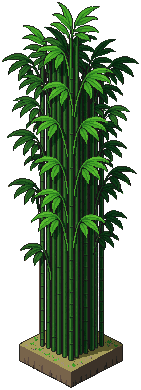
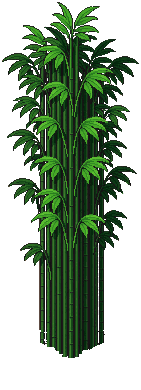
Clean tree transparency and remove ground slabs

Changed region(s): [[0.1135, 0.8308, 0.8794, 1.0]]

diff --git a/assets/pixellab/japanese_environment/README.md b/assets/pixellab/japanese_environment/README.md
@@ -144,7 +144,11 @@ sakura trees (`sakura_tree_a`, `sakura_tree_c`, `sakura_weeping`), `black_pine`,
 to fade when the player walks behind them.
 
 The five trees were regenerated at 400px tall (roughly twice the old height;
-backgrounds removed locally) and drawn at 1.2–1.3x scale:
+backgrounds removed locally) and drawn at 1.2–1.3x scale. Enclosed background
+patches between branches are transparent too; pale pink blossom highlights
+are preserved. The baked-in ground slabs and ellipse/diamond shadows are
+removed so trunks and bamboo sit directly over the map's grass tiles.
+Canvas dimensions and trunk anchors remain unchanged:
 
 | Tree | Gallery id |
 |---|---|
